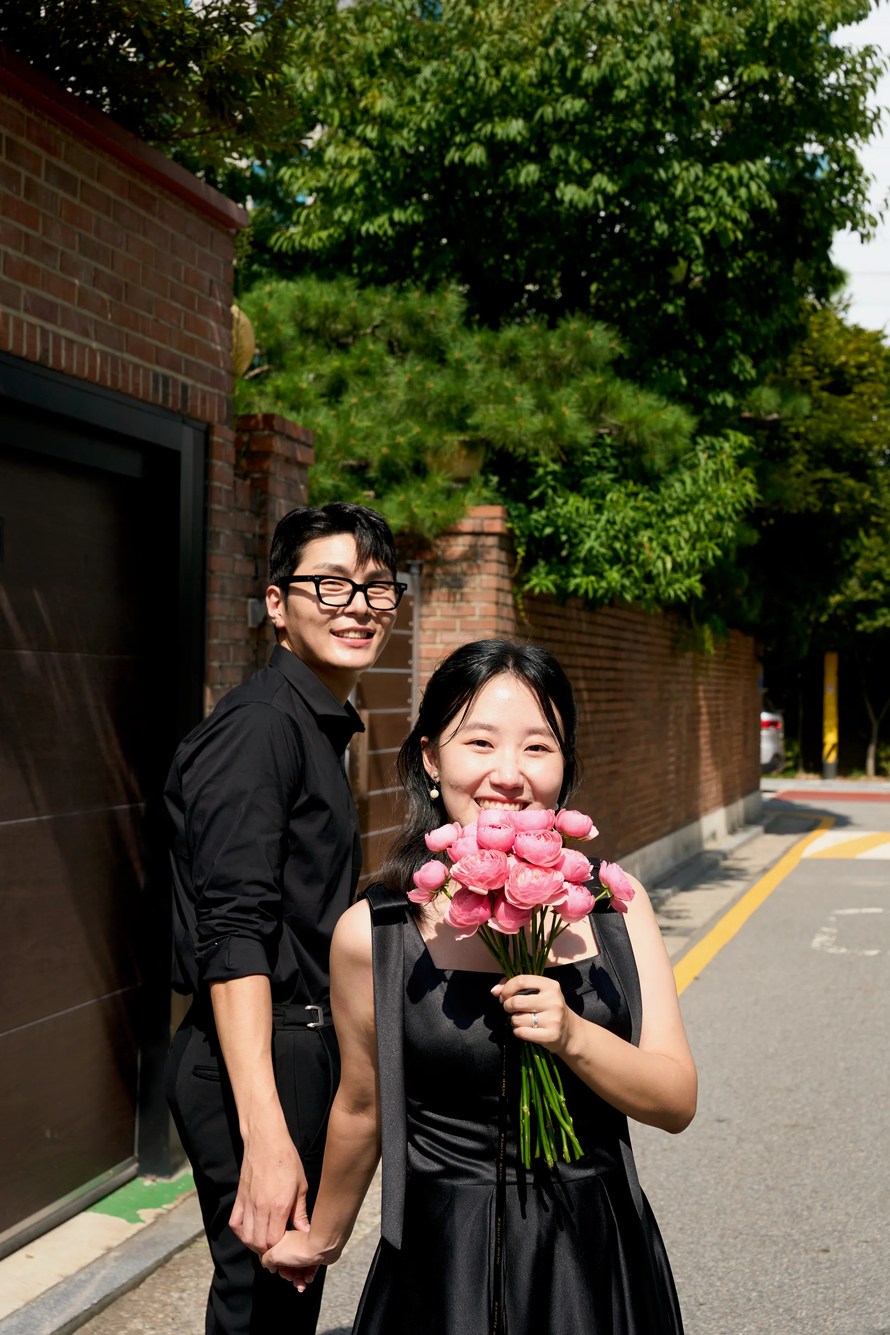
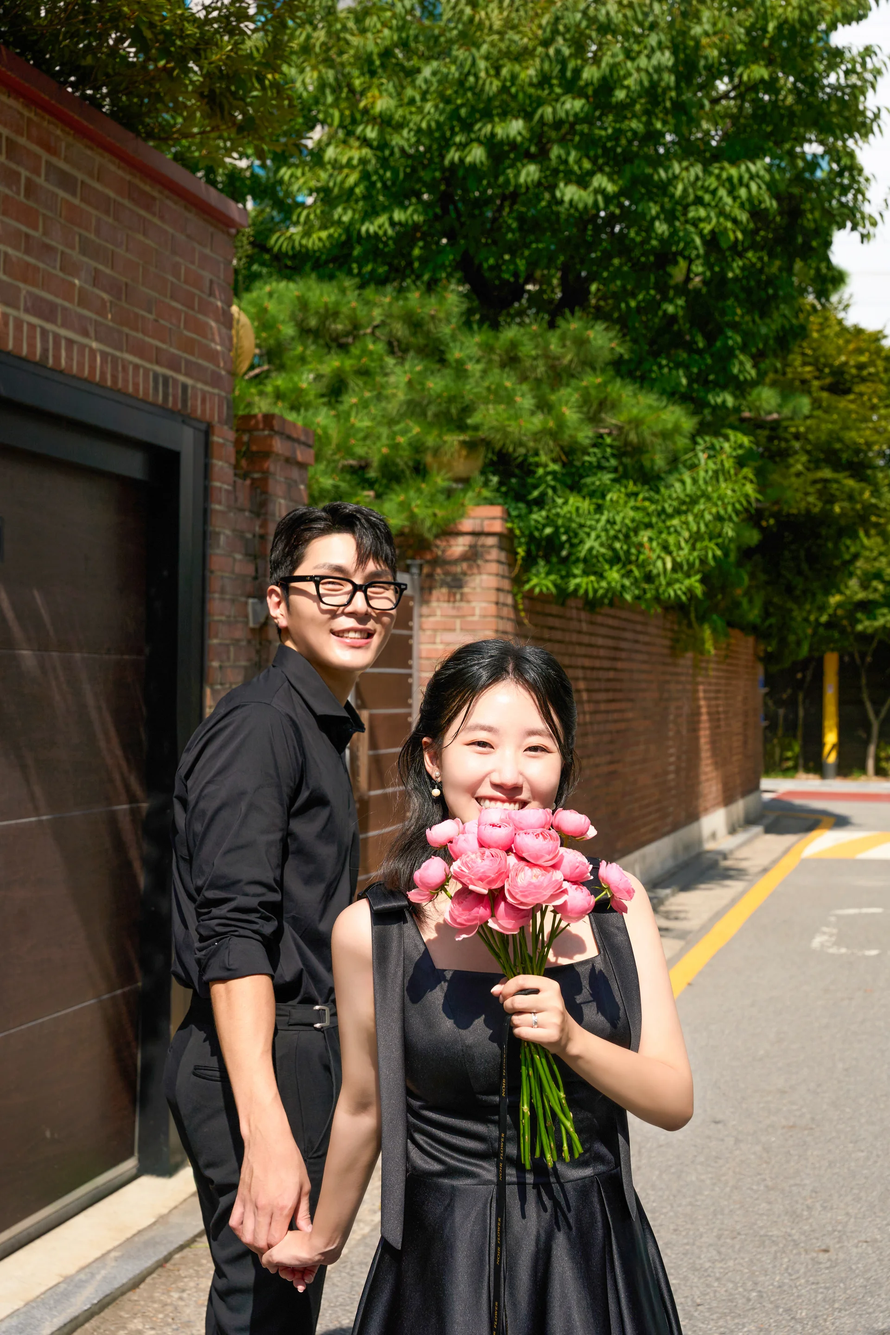
Update hero section with new couple photo and white text
- Replace hero background image with new couple photo
- Optimize image: 18MB PNG → 545KB WebP (97% reduction)
- Change all text to white for better visibility on photo
- Strengthen text shadows (0.1 → 0.6 opacity) for readability
- Remove overlay (bg-white/60 → bg-white/0) for full photo visibility

🤖 Generated with [Claude Code](https://claude.com/claude-code)

diff --git a/components/sections/Hero.tsx b/components/sections/Hero.tsx
@@ -34,7 +34,7 @@ export default function Hero() {
       }}
     >
       {/* Background overlay */}
-      <div className="absolute inset-0 bg-white/60" />
+      <div className="absolute inset-0 bg-white/0" />
 
       {/* Content */}
       <motion.div
@@ -48,10 +48,10 @@ export default function Hero() {
           initial={{ opacity: 0 }}
           animate={{ opacity: 1 }}
           transition={{ delay: 0.3, duration: 1 }}
-          className="mb-8 whitespace-nowrap font-serif font-bold tracking-wide text-gray-900"
+          className="mb-8 whitespace-nowrap font-serif font-bold tracking-wide text-white"
           style={{
             fontSize: 'clamp(1.75rem, 8vw, 3rem)',
-            textShadow: '0 2px 4px rgba(0,0,0,0.1)'
+            textShadow: '0 2px 8px rgba(0,0,0,0.6)'
           }}
         >
           {groom.name} ♥ {bride.name}
@@ -65,14 +65,14 @@ export default function Hero() {
           className="mb-4 space-y-2"
         >
           <p
-            className="text-lg tracking-widest text-gray-700"
-            style={{ textShadow: '0 2px 4px rgba(0,0,0,0.1)' }}
+            className="text-lg tracking-widest text-white"
+            style={{ textShadow: '0 2px 8px rgba(0,0,0,0.6)' }}
           >
             {formatDate()}
           </p>
           <p
-            className="font-serif text-3xl font-light tracking-wider text-gray-900"
-            style={{ textShadow: '0 2px 4px rgba(0,0,0,0.1)' }}
+            className="font-serif text-3xl font-light tracking-wider text-white"
+            style={{ textShadow: '0 2px 8px rgba(0,0,0,0.6)' }}
           >
             {formatTime()}
           </p>
@@ -83,8 +83,8 @@ export default function Hero() {
           initial={{ opacity: 0 }}
           animate={{ opacity: 1 }}
           transition={{ delay: 0.9, duration: 1 }}
-          className="text-lg text-gray-700"
-          style={{ textShadow: '0 2px 4px rgba(0,0,0,0.1)' }}
+          className="text-lg text-white"
+          style={{ textShadow: '0 2px 8px rgba(0,0,0,0.6)' }}
         >
           {venue.name}
         </motion.p>
@@ -100,8 +100,8 @@ export default function Hero() {
         <motion.div
           animate={{ y: [0, 10, 0] }}
           transition={{ repeat: Infinity, duration: 1.5 }}
-          className="text-sm tracking-widest text-gray-700"
-          style={{ textShadow: '0 2px 4px rgba(0,0,0,0.1)' }}
+          className="text-sm tracking-widest text-white"
+          style={{ textShadow: '0 2px 8px rgba(0,0,0,0.6)' }}
         >
           SCROLL
         </motion.div>
